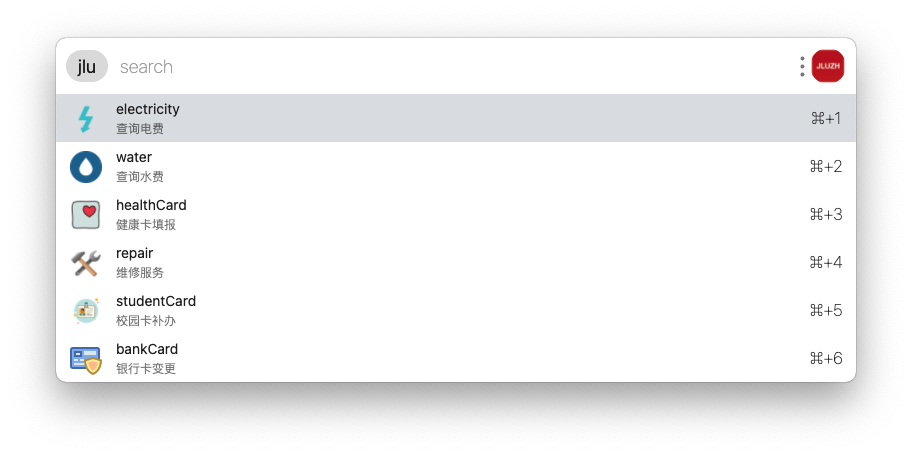
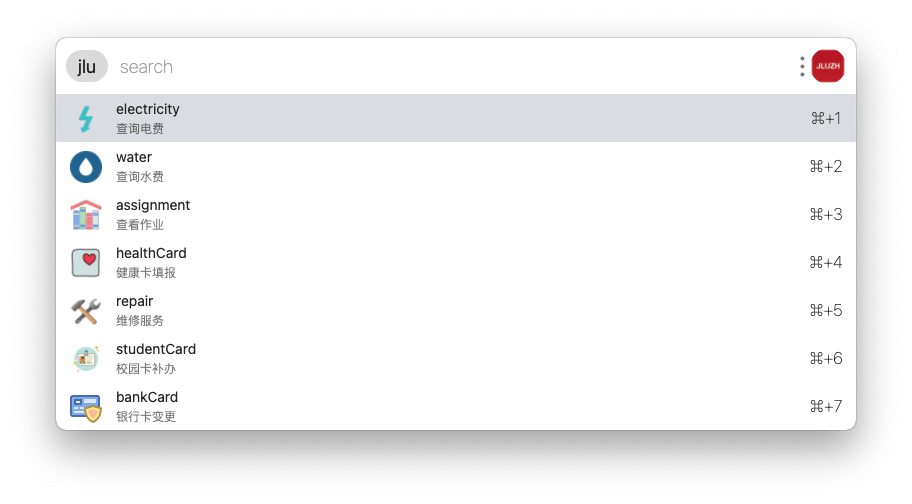
update README.md

Changed region(s): [[0.0614, 0.0614, 0.9518, 0.8596], [0.8904, 0.6754, 0.9211, 0.7368]]

diff --git a/README.md b/README.md
@@ -11,4 +11,7 @@ Enter jluSetting to set the username and password
 
 ![electricity](https://github.com/Jasonzj/utools-jlu/blob/main/screenshots/electricity.jpg)
 
+![assignment](https://github.com/Jasonzj/utools-jlu/blob/main/screenshots/assignment.jpg)
+
+![assignmentDetail](https://github.com/Jasonzj/utools-jlu/blob/main/screenshots/assignmentDetail.jpg)
 
